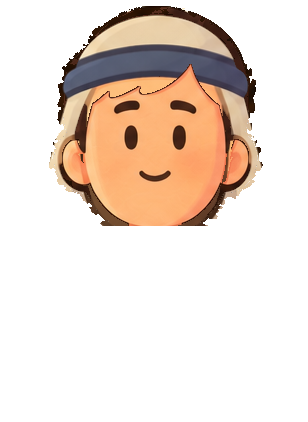
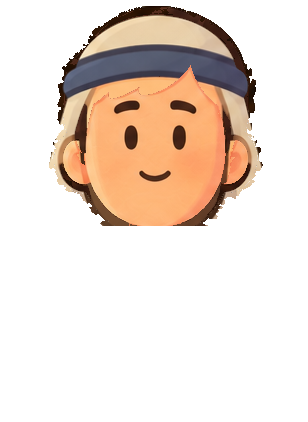
fix(animations): the filler bases' covered heads keep no hair edge along the old fringe

diff --git a/apps/animations/src/library/cast/filler-bases/cutout/parts-cut.ts b/apps/animations/src/library/cast/filler-bases/cutout/parts-cut.ts
@@ -699,14 +699,14 @@ const AGREE = 15;
 
 /**
  * The base head as a headwear covers it (`head-covered.png`), in the part
- * sheet's frame: its face and ears (its skin, the features the skin encloses,
- * and one px past them) kept, and every other px of it, its hair and the
- * hair's line, read from the dressed view over it (`figure`, the dressed
+ * sheet's frame: its face and ears (its skin and the features the skin
+ * encloses) kept, and every other px of it, its hair and the hair's line,
+ * the face's own outline among them, read from the dressed view over it (`figure`, the dressed
  * view's figure warped into the frame): kept where the two agree (`AGREE`),
  * transparent where the dressed view is ground (the cowlick above a
  * headcloth), else the dressed view's colour (the forehead under a band, the
  * headcloth and its lining over the hair), so no base hair shows round the
- * headwear at rest, nor where a turned head moves under a drape that rides
+ * headwear at rest, nor the hair's anti-aliased edge along the old fringe, nor where a turned head moves under a drape that rides
  * the lean too.
  */
 const coveredOf = (head: Raster, figure: Raster): Raster => {
@@ -725,16 +725,7 @@ const coveredOf = (head: Raster, figure: Raster): Raster => {
     });
     if (!open && hole.length < FEATURE) for (const i of hole) skin[i] = 1;
   }
-  const face = Uint8Array.from(skin, (v, i) => {
-    const [x, y] = [i % w, Math.floor(i / w)];
-    const near = [-1, 0, 1].flatMap((dy) =>
-      [-1, 0, 1].map((dx) => {
-        const [nx, ny] = [x + dx, y + dy];
-        return nx >= 0 && ny >= 0 && nx < w && ny < h && skin[ny * w + nx] === 1;
-      }),
-    );
-    return Number(v === 1 || near.some(Boolean));
-  });
+  const face = skin;
   const rgba = Uint8Array.from(head.rgba);
   for (let i = 0; i < w * h; i++) {
     if ((head.rgba[i * 4 + 3] ?? 0) === 0 || face[i] === 1) continue;
